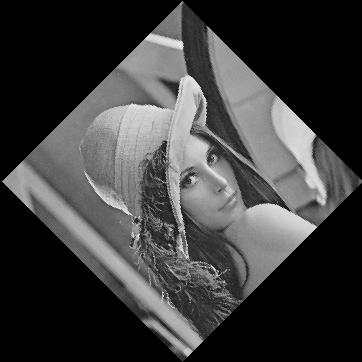
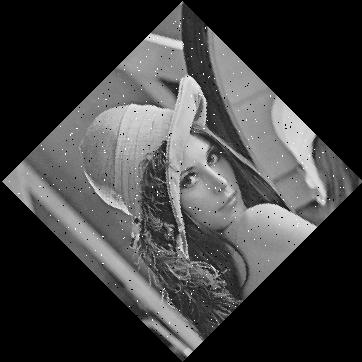
clean and ready for phase 2

diff --git a/main.py b/main.py
@@ -15,37 +15,19 @@ Add Gaussian noise
 '''
 try:
     gaussian_image1 = utils.func_add_noisy(img_array)
-    gaussian_image2 = utils.func_add_noisy(img_array, var=0.200)
-    #Analysis RMS of noise
-    gaussian_image3 = utils.func_add_noisy(img_array, var=0.41)
+    gaussian_image2 = utils.func_add_noisy(img_array, var=75)
+    pepper_image1 = utils.func_add_noisy(img_array, 's&p',amount=0.01)
+
 except Exception as Argument:
     print('Adding Gaussian noise exception occurred: {0}'.format(Argument))
     input()
 else:
     Image.fromarray(gaussian_image1).save('Gaussian_img_1.jpg')
-    Image.fromarray(gaussian_image2).save('Gaussian_img_2.jpg')
-    Image.fromarray(gaussian_image3).save('Gaussian_img_3.jpg')
+    Image.fromarray(pepper_image1).save('Salt&pepper_img_2.jpg')
+
     print('Successfully Added Gaussian Noise')
 
-'''
-Add Laplace noise
-'''
-# try:
-#     laplacian_image1 = utils.func_add_noisy(img_array, noise_typ='laplacian')
-#     laplacian_image2 = utils.func_add_noisy(img_array, noise_typ='laplacian', mean=0.2, exponential_decay= 0.5)
-#     laplacian_image3 = utils.func_add_noisy(img_array, noise_typ='laplacian', mean=0.1, exponential_decay= 0.15)
-# except Exception as Argument:
-#     print('Adding Laplacian noise exception occurred: {0}'.format(Argument))
-#     input()
-# else:
-#     Image.fromarray(laplacian_image1).save('Laplacian_img_1.jpg')
-#     Image.fromarray(laplacian_image2).save('Laplacian_img_2.jpg')
-#     Image.fromarray(laplacian_image3).save('Laplacian_img_3.jpg')
-#     print('Successfully Added Laplacian Noise')
 
-'''
-    Rotate image by interpolation
-'''
 
 try:
     rotate_image1 = utils.func_manual_rotate_image_interpolation(img_array, 45)

diff --git a/utils.py b/utils.py
@@ -122,7 +122,7 @@ def func_add_noisy(image, noise_typ = 'gaussian', **kwargs):
         'speckle': 'gaussian_values'}
     kw_defaults = {
         'mean': 0.,
-        'var': 0.01,
+        'var': 10,
         'exponential_decay' : 1.0,
         'amount': 0.005,
         'salt_vs_pepper': 0.5,
@@ -186,14 +186,14 @@ def func_add_noisy(image, noise_typ = 'gaussian', **kwargs):
         num_salt = np.ceil(kwargs['amount'] * normed_image.size * kwargs['salt_vs_pepper'])
         co_ordinates = [np.random.randint(0, i - 1, int(num_salt))
                         for i in normed_image.shape]
-        out[co_ordinates] = 1
+        out[co_ordinates] = 255
 
         # Pepper mode
         num_pepper = np.ceil(kwargs['amount'] * normed_image.size * (1. - kwargs['salt_vs_pepper']))
         co_ordinates = [np.random.randint(0, i - 1, int(num_pepper))
                         for i in normed_image.shape]
         out[co_ordinates] = 0
-        return func_verify_image(out*max_value)
+        return out * max_value
     elif noise_typ == 'poisson':
         values = len(np.unique(normed_image))
         values = 2 ** np.ceil(np.log2(values))
